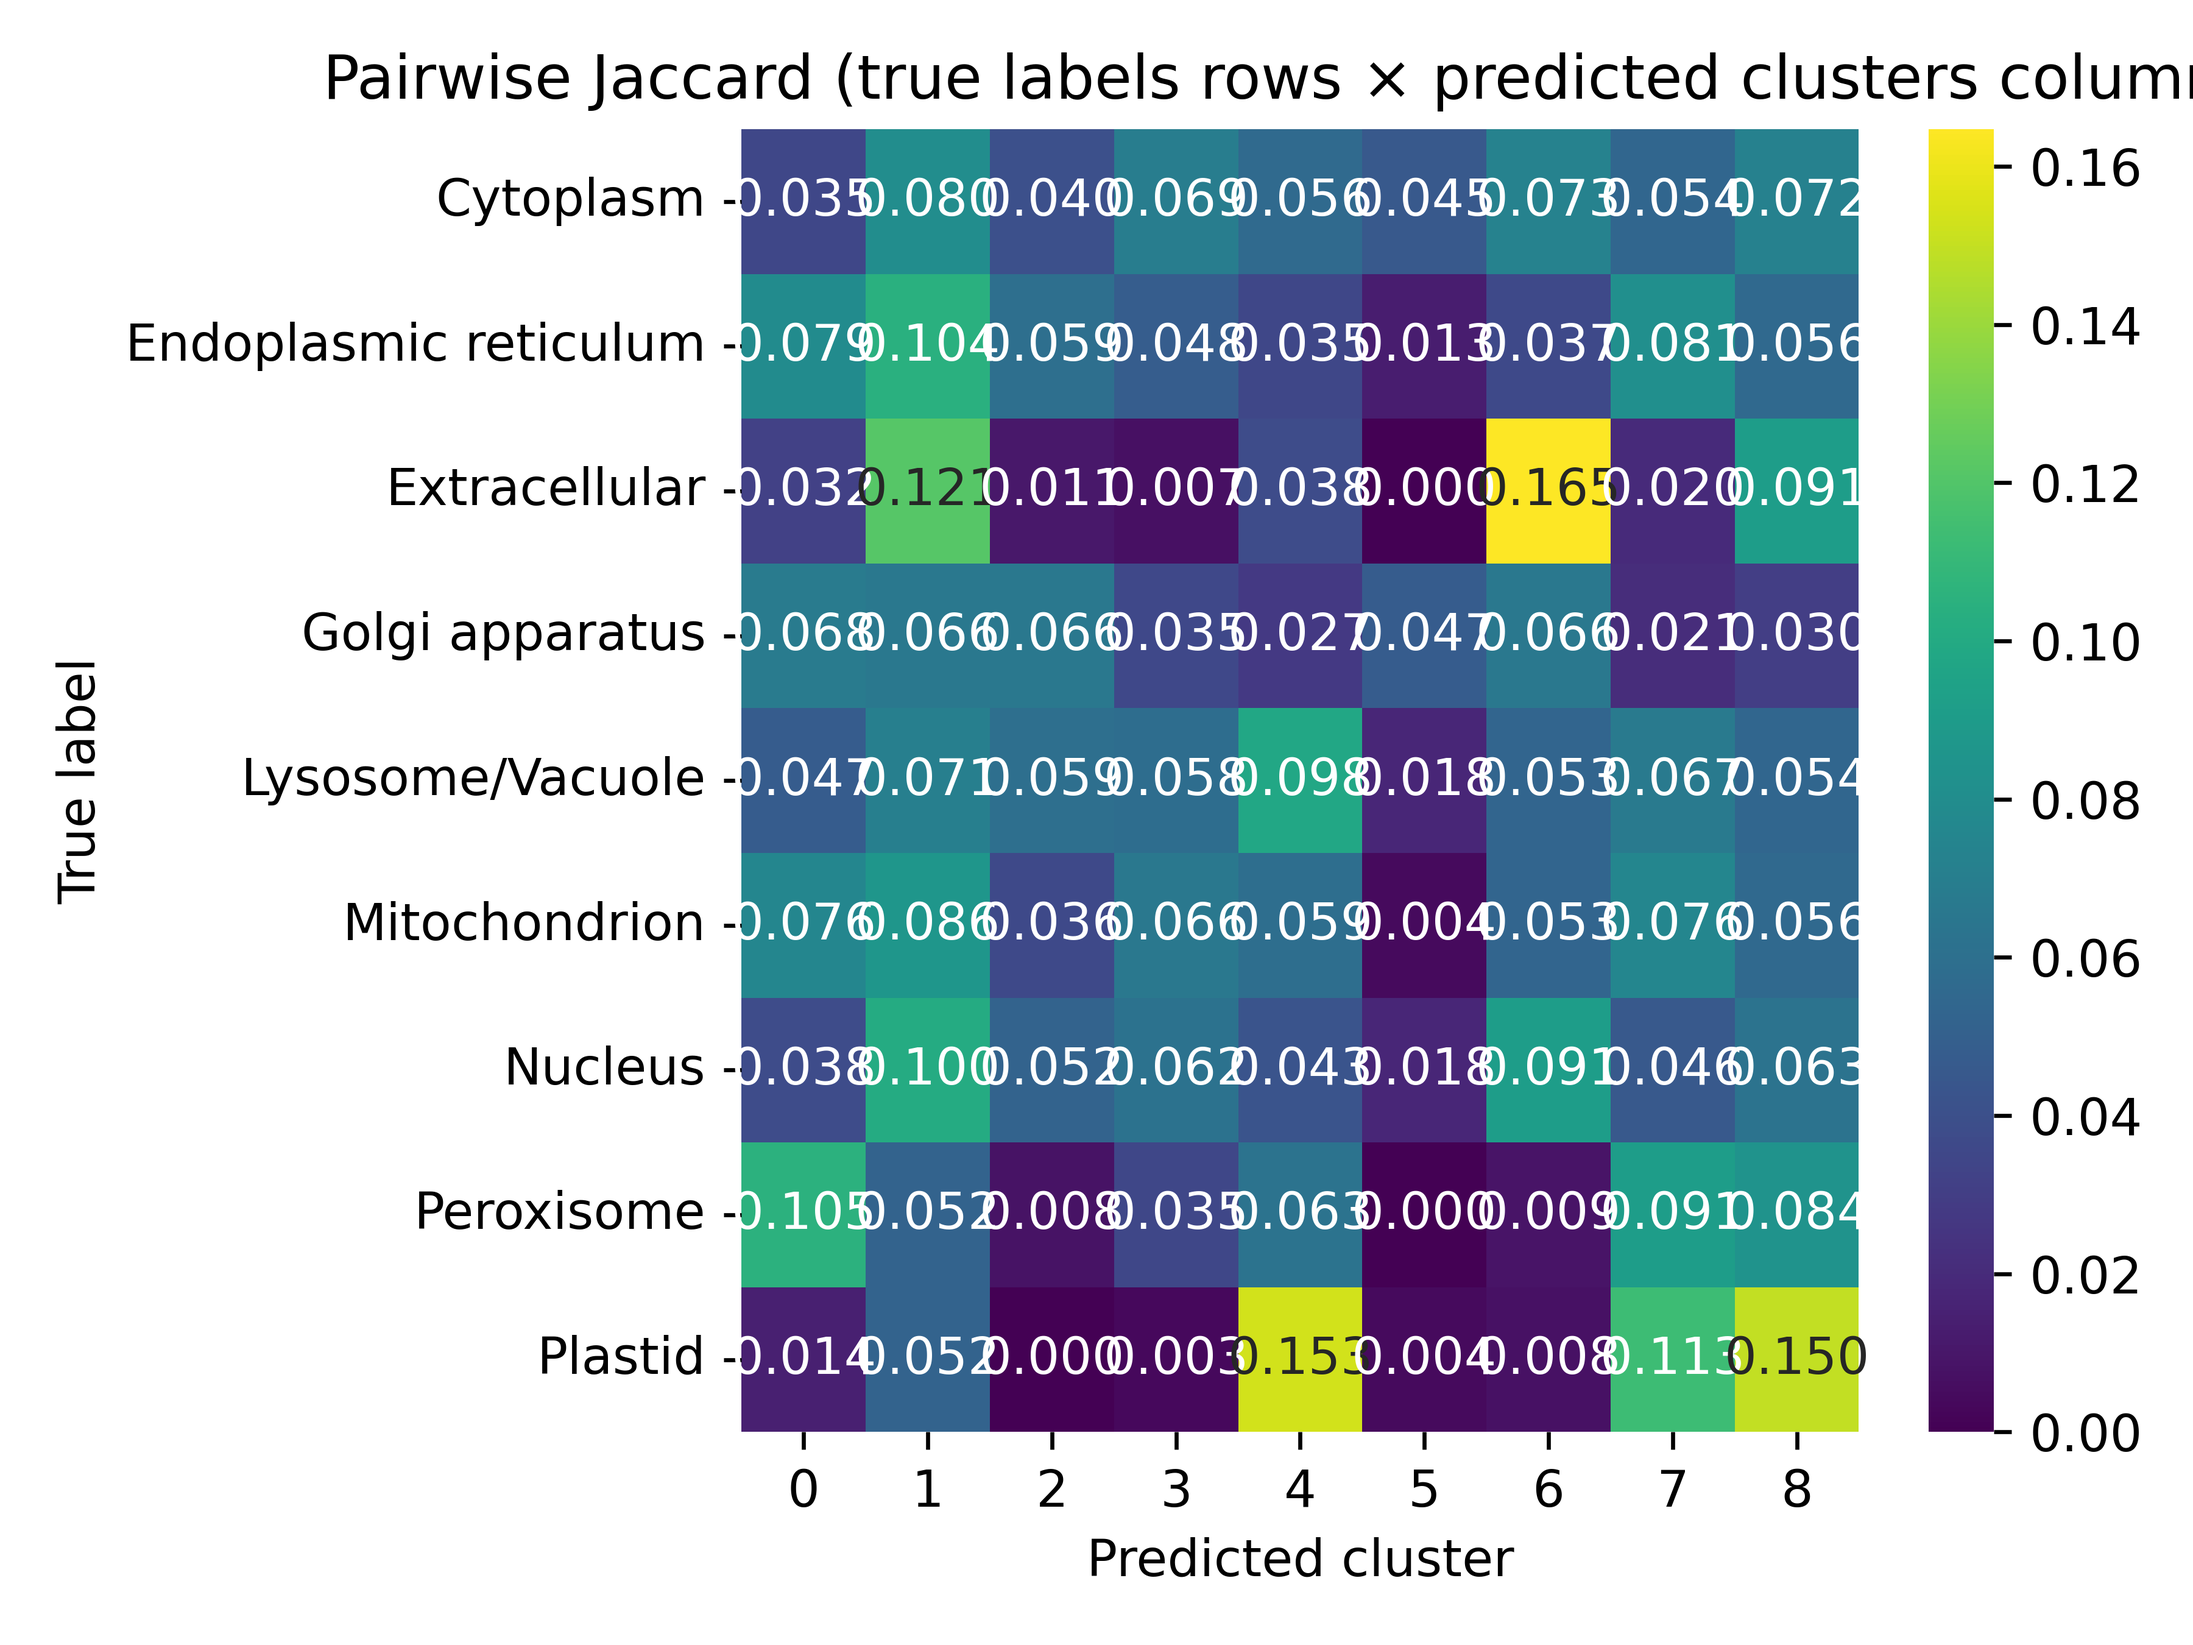
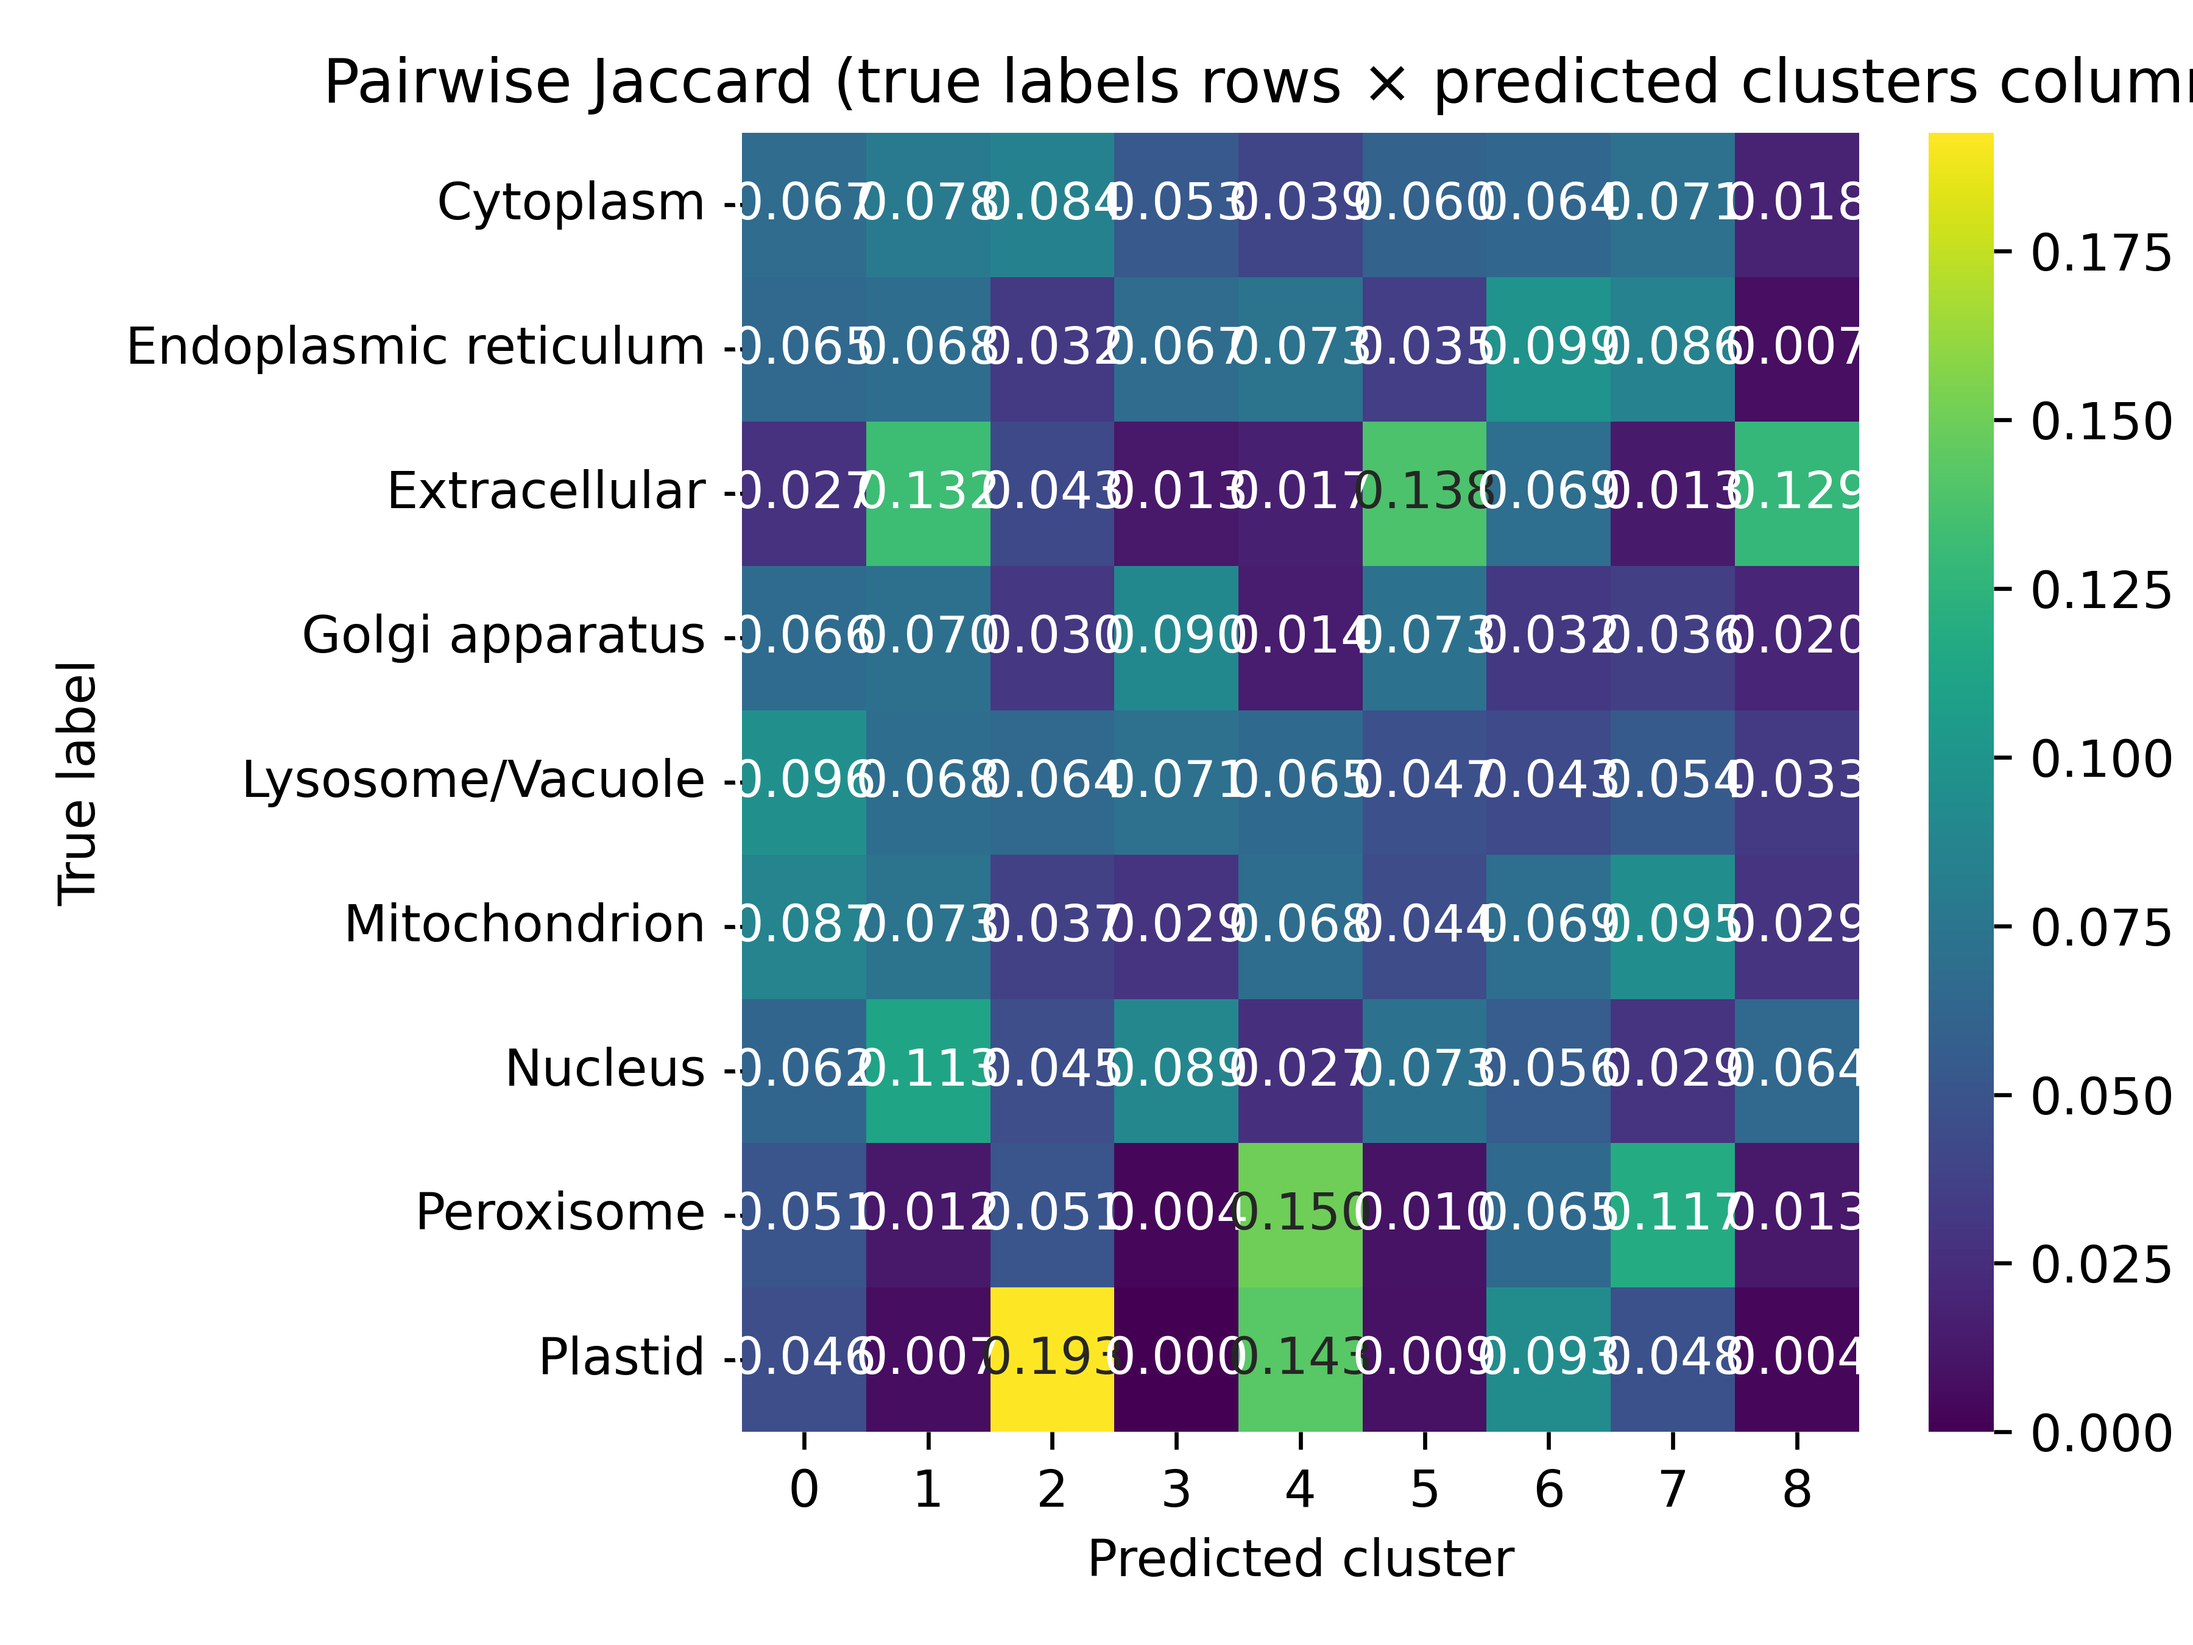
updated code

diff --git a/main.py b/main.py
@@ -29,15 +29,24 @@ class Similarity(Enum):
     Geodesic = "isomap"
 
 
+# similarity matrix is 1 - distance matrix
 def create_similarity_matrix(data, similarity):
+    D = None
     if similarity == Similarity.Geodesic:
-        isomap = sk.manifold.Isomap(n_neighbors=3, n_components=2)
-        isomap.fit_transform(data)
-        return isomap.dist_matrix_
+        n_neighbors = max(10, int(np.log(len(data))))
+        isomap = sk.manifold.Isomap(n_neighbors=n_neighbors, n_components=2)
+        isomap.fit(data)
+        D = isomap.dist_matrix_
     else:
-        return sc.spatial.distance.squareform(
+        D = sc.spatial.distance.squareform(
             sc.spatial.distance.pdist(data, metric=similarity.value)
         )
+
+    # normalize
+    D = D / np.max(D)
+
+    # convert distance to similarity
+    return 1 - D
 
 
 # Turn a similarity matrix into a heatmap
@@ -61,22 +70,25 @@ def visualize_similarity_matrix(m, sim_type):
     plt.show()
 
 
-def cluster(similarity_m, clustering, n):
+def cluster(similarity_m, clustering, n, data=None):
     match clustering:
         case Clustering.Spectral:
             spectral = sk.cluster.SpectralClustering(
-                n, affinity="precomputed", n_init=100, assign_labels="discretize"
+                n, affinity="precomputed", assign_labels="discretize"
             )
             return spectral.fit_predict(similarity_m)
         case Clustering.Hierarchical:
-            clusters = sk.cluster.AgglomerativeClustering(n_clusters=n, linkage="average").fit(
-                similarity_m
-            )
+            # hierarchical expects distance matrix
+            dist_m = 1 + similarity_m
+            clusters = sk.cluster.AgglomerativeClustering(
+                n_clusters=n, linkage="average"
+            ).fit(dist_m)
             return clusters.labels_
         case Clustering.Kmeans:
+            # this expects featues not similarity_m
             return sk.cluster.KMeans(
                 n_clusters=n, random_state=0, n_init="auto"
-            ).fit_predict(similarity_m)
+            ).fit_predict(data)
 
 
 """
@@ -87,8 +99,9 @@ and produce a data frame with the embeddings, clusters along with the similarity
 
 def cluster_data(data, similarity, clustering, n=None):
     similarity_matrix = create_similarity_matrix(data, similarity)
-    clusters = cluster(similarity_matrix, clustering, n)
+    clusters = cluster(similarity_matrix, clustering, n, data=data)
 
+    # similarity matrix meaingless for kmeans
     return data, clusters, similarity_matrix
 
 
@@ -163,7 +176,7 @@ def parse_SCOPe_file(embedding_func, outname, verbose=True):
 
 
 def parse_embeddings_and_type(in_file):
-    if 'parquet' in in_file:
+    if "parquet" in in_file:
         return pd.read_parquet(in_file, columns=["type", "embedding"])
 
     df = pd.read_csv(
@@ -173,6 +186,7 @@ def parse_embeddings_and_type(in_file):
     )
 
     return df
+
 
 def plot_umap_structural(df, tsne=False, scale=True):
     descriptor = "SCOPe Class"
@@ -199,9 +213,8 @@ def plot_umap_structural(df, tsne=False, scale=True):
         X_scaled = X
 
     if tsne:
-        reducer = TSNE(n_components=2, random_state=42, method='exact'
-        )
-        red_name = 'TSNE'
+        reducer = TSNE(n_components=2, random_state=42, method="exact")
+        red_name = "TSNE"
     else:
         reducer = umap.UMAP(
             n_neighbors=15,
@@ -211,7 +224,7 @@ def plot_umap_structural(df, tsne=False, scale=True):
             init="random",  # <-- use random instead of spectral
             n_jobs=-1,
         )
-        red_name = 'UMAP'
+        red_name = "UMAP"
     embedding_2d = reducer.fit_transform(X_scaled)
     print(pd.DataFrame(embedding_2d).head())
 
@@ -238,7 +251,7 @@ def plot_umap_structural(df, tsne=False, scale=True):
     plt.xlabel(f"{red_name}-1")
     plt.ylabel(f"{red_name}-2")
     plt.title(f"{red_name} of Protein Embeddings Colored by {descriptor}")
-    #plt.legend(title=descriptor, fontsize=9, loc='center left', bbox_to_anchor=(1.02, 0.5))
+    # plt.legend(title=descriptor, fontsize=9, loc='center left', bbox_to_anchor=(1.02, 0.5))
     plt.tight_layout()
     plt.show()
 
@@ -252,13 +265,13 @@ Given the data file, must be csv with headers "type" and "embedding" at least to
 
 def cluster_compare(df, n, embedding_type):
     sim_clust = [
-        # (Similarity.Cosine, Clustering.Hierarchical),
+        (Similarity.Cosine, Clustering.Hierarchical),
         (Similarity.Cosine, Clustering.Kmeans),
         (Similarity.Cosine, Clustering.Spectral),
-        # (Similarity.Euclidean, Clustering.Hierarchical),
+        (Similarity.Euclidean, Clustering.Hierarchical),
         (Similarity.Euclidean, Clustering.Kmeans),
         (Similarity.Euclidean, Clustering.Spectral),
-        # (Similarity.Geodesic, Clustering.Hierarchical),
+        (Similarity.Geodesic, Clustering.Hierarchical),
         (Similarity.Geodesic, Clustering.Kmeans),
         (Similarity.Geodesic, Clustering.Spectral),
     ]
@@ -266,34 +279,39 @@ def cluster_compare(df, n, embedding_type):
     embeddings = np.vstack(df["embedding"].to_numpy())
     # embeddings = PCA(n_components=2).fit_transform(embeddings)
     for similarity, clustering in sim_clust:
-        np.save(f'./data/{embedding_type}_{similarity}_{clustering}_embeddings.npy', embeddings)
+        np.save(
+            f"./data/{embedding_type}_{similarity}_{clustering}_embeddings.npy",
+            embeddings,
+        )
         (_data, clusters, _sim_m) = cluster_data(embeddings, similarity, clustering, n)
         labels = df["type"].to_numpy()
-        clustering_evaluation(f'{similarity}_{clustering}', clusters, labels)
+        clustering_evaluation(f"{similarity}_{clustering}", clusters, labels)
 
         # save cluster labels
-        np.save(f'./data/{embedding_type}_{similarity}_{clustering}_clusterlabels.npy', clusters)
+        np.save(
+            f"./data/{embedding_type}_{similarity}_{clustering}_clusterlabels.npy",
+            clusters,
+        )
 
 
 """
 Example with BOW
 """
 if __name__ == "__main__":
-    '''
+    """
     for embedding_name in ['bag_of_words', 'esm2_8M_embeddings', 'esm2_35M_embeddings', 'esm2_150M_embeddings', 'prot_bert_embeddings']:
         print(embedding_name)
         df = parse_embeddings_and_type(f"/home/jc4587/qcb551_proj/embeddings/{embedding_name}.csv")
         # Fix label collumn for esm embeddings
         if 'esm' in embedding_name or 'prot_bert' in embedding_name:
             df['type'] = [s[0] for s in df['type'].tolist()]
-    '''
-    for embedding_name in [#'bow', 
-                            'esm2_8M', 'esm2_35M', 'esm2_150M', 'prot_bert']:
-        embedding_name += '_functional'
+    """
+    for embedding_name in ["esm2_8M", "esm2_35M", "esm2_150M", "prot_bert"]:  #'bow',
+        embedding_name += "_functional"
         df = parse_embeddings_and_type(f"{embedding_name}.parquet")
-        #print(df['type'].value_counts())
+        # print(df['type'].value_counts())
 
-        N_PER_CLASS = 200 
+        N_PER_CLASS = 200
         # "Stratified fixed-size sample"
         sampled_df = (
             df.groupby("type", group_keys=False)
@@ -301,6 +319,6 @@ if __name__ == "__main__":
             .reset_index(drop=True)
         )
         # exclude this category since it only has 23 proteins
-        sampled_df = sampled_df[sampled_df['type'] != 'Cell membrane']
-        print(sampled_df['type'].value_counts())
-        cluster_compare(sampled_df, sampled_df['type'].nunique(), embedding_name)
+        sampled_df = sampled_df[sampled_df["type"] != "Cell membrane"]
+        print(sampled_df["type"].value_counts())
+        cluster_compare(sampled_df, sampled_df["type"].nunique(), embedding_name)
